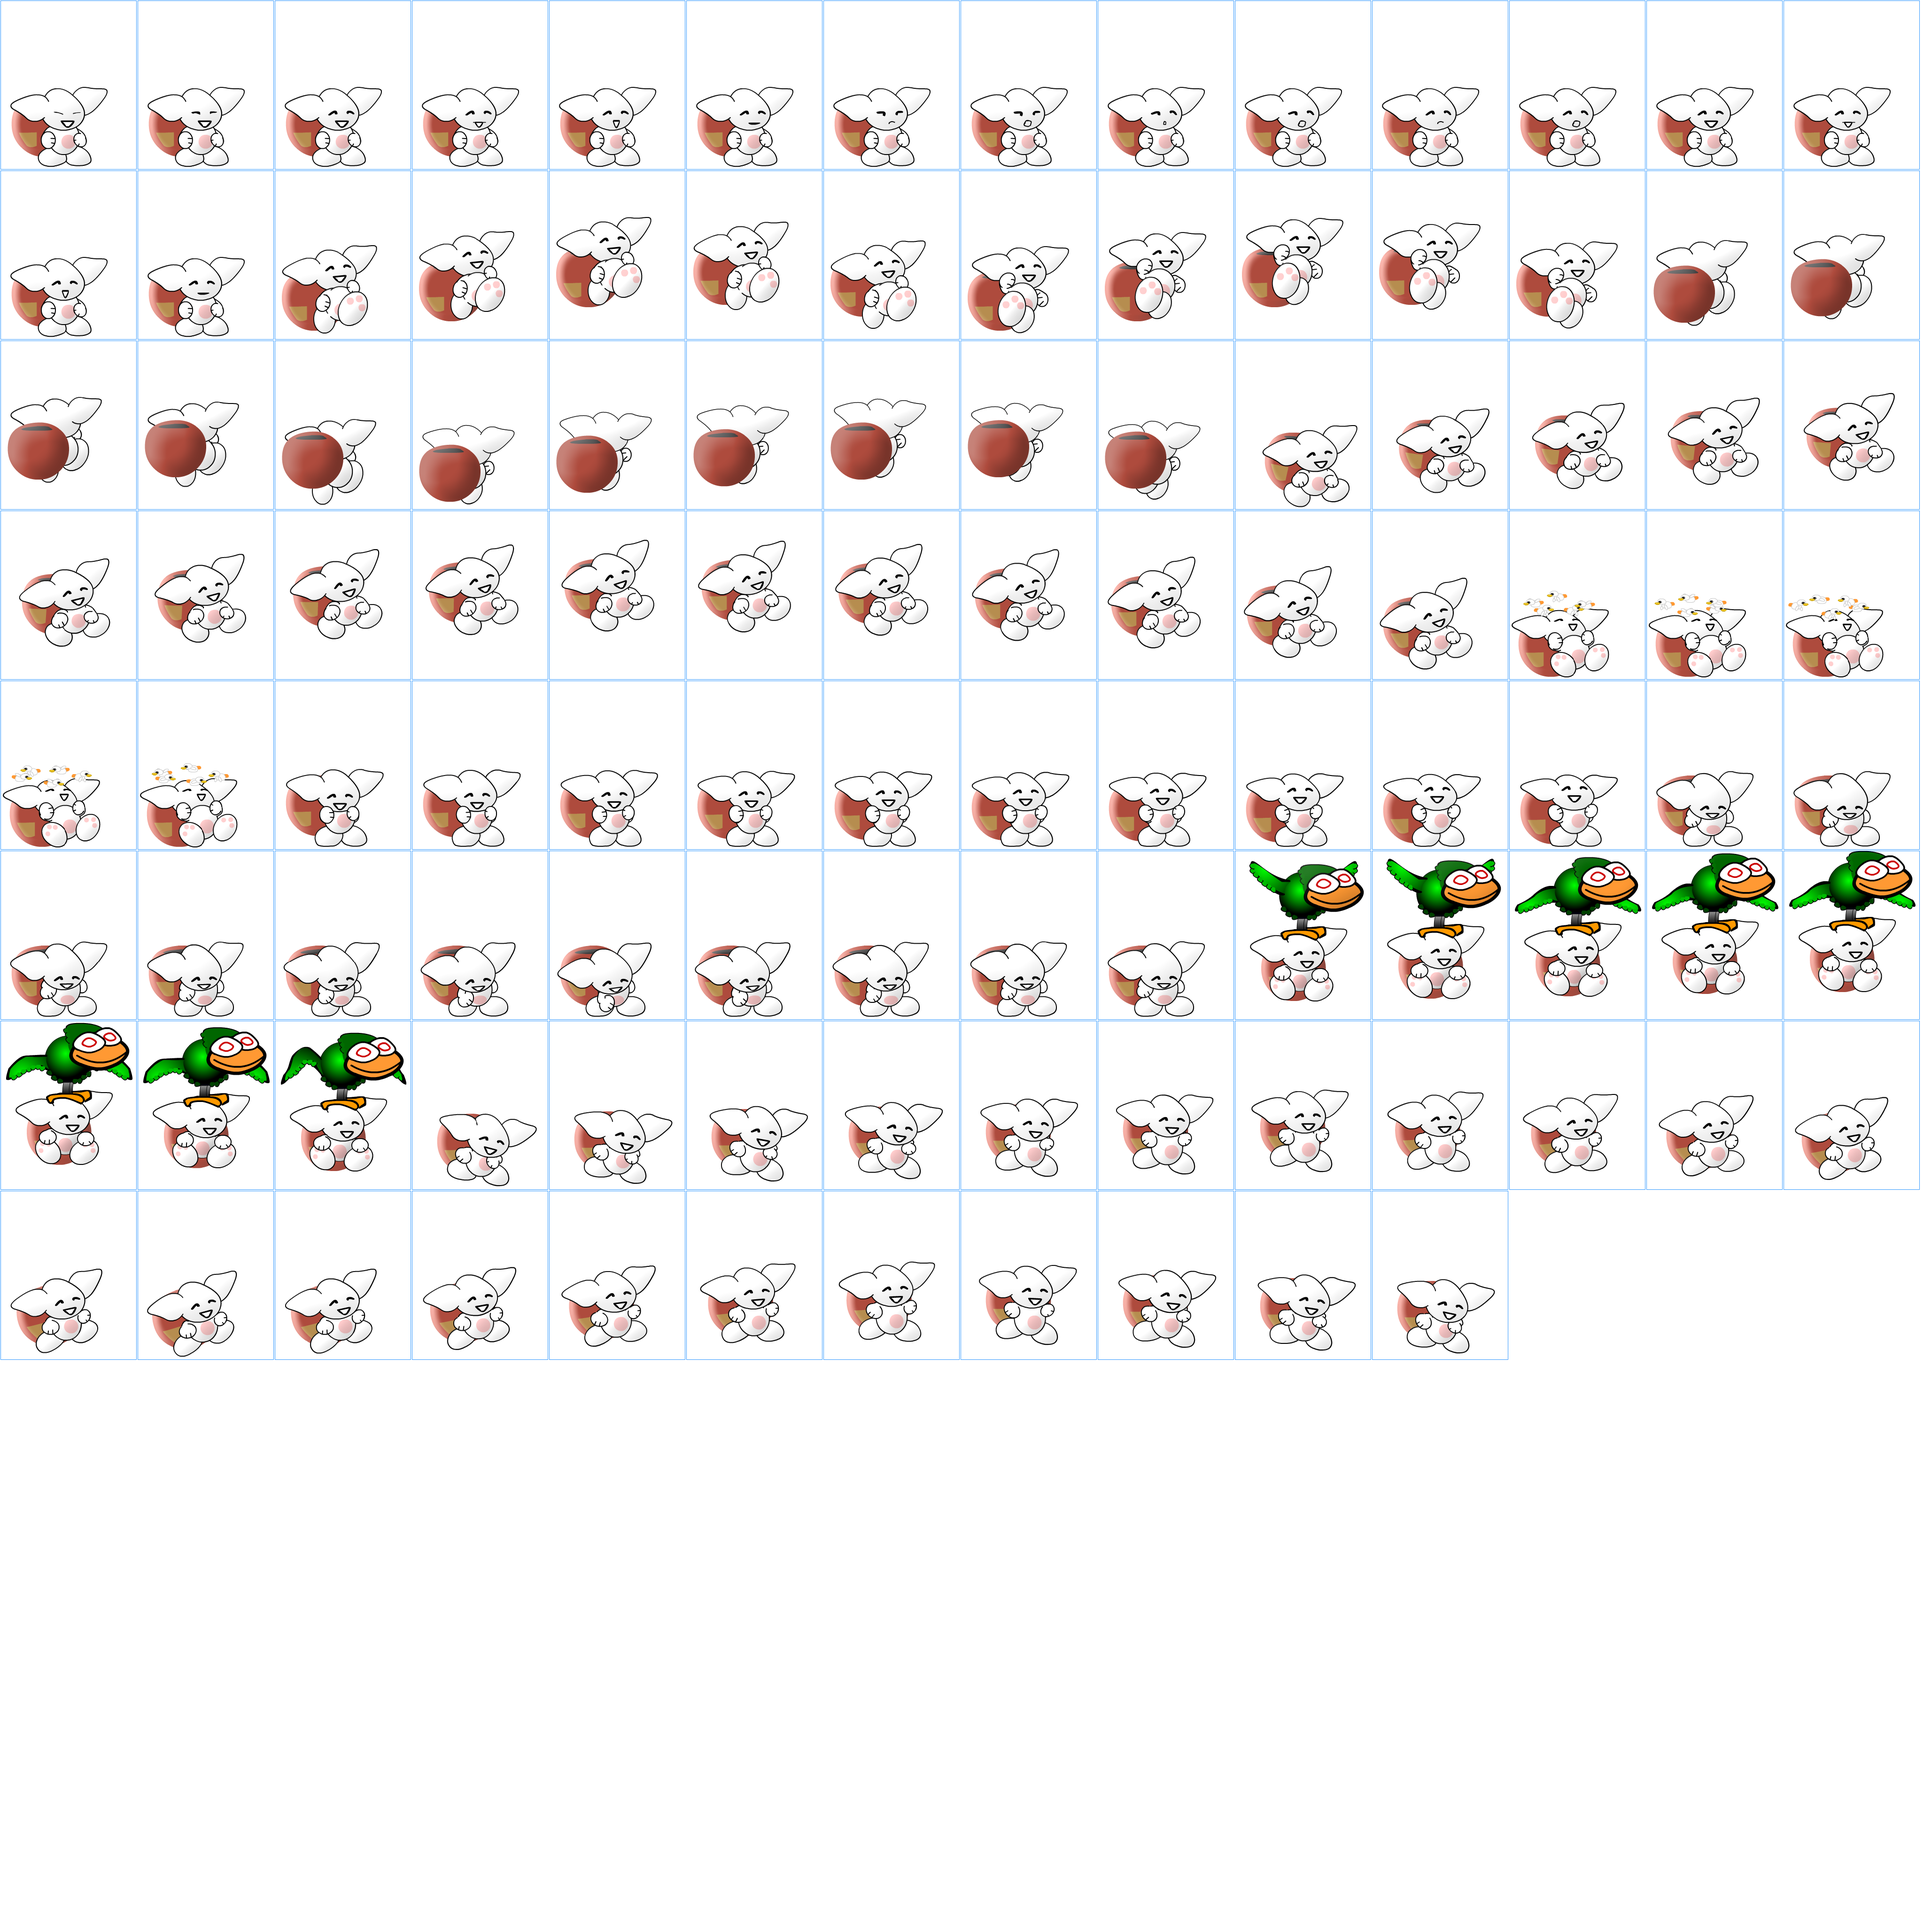
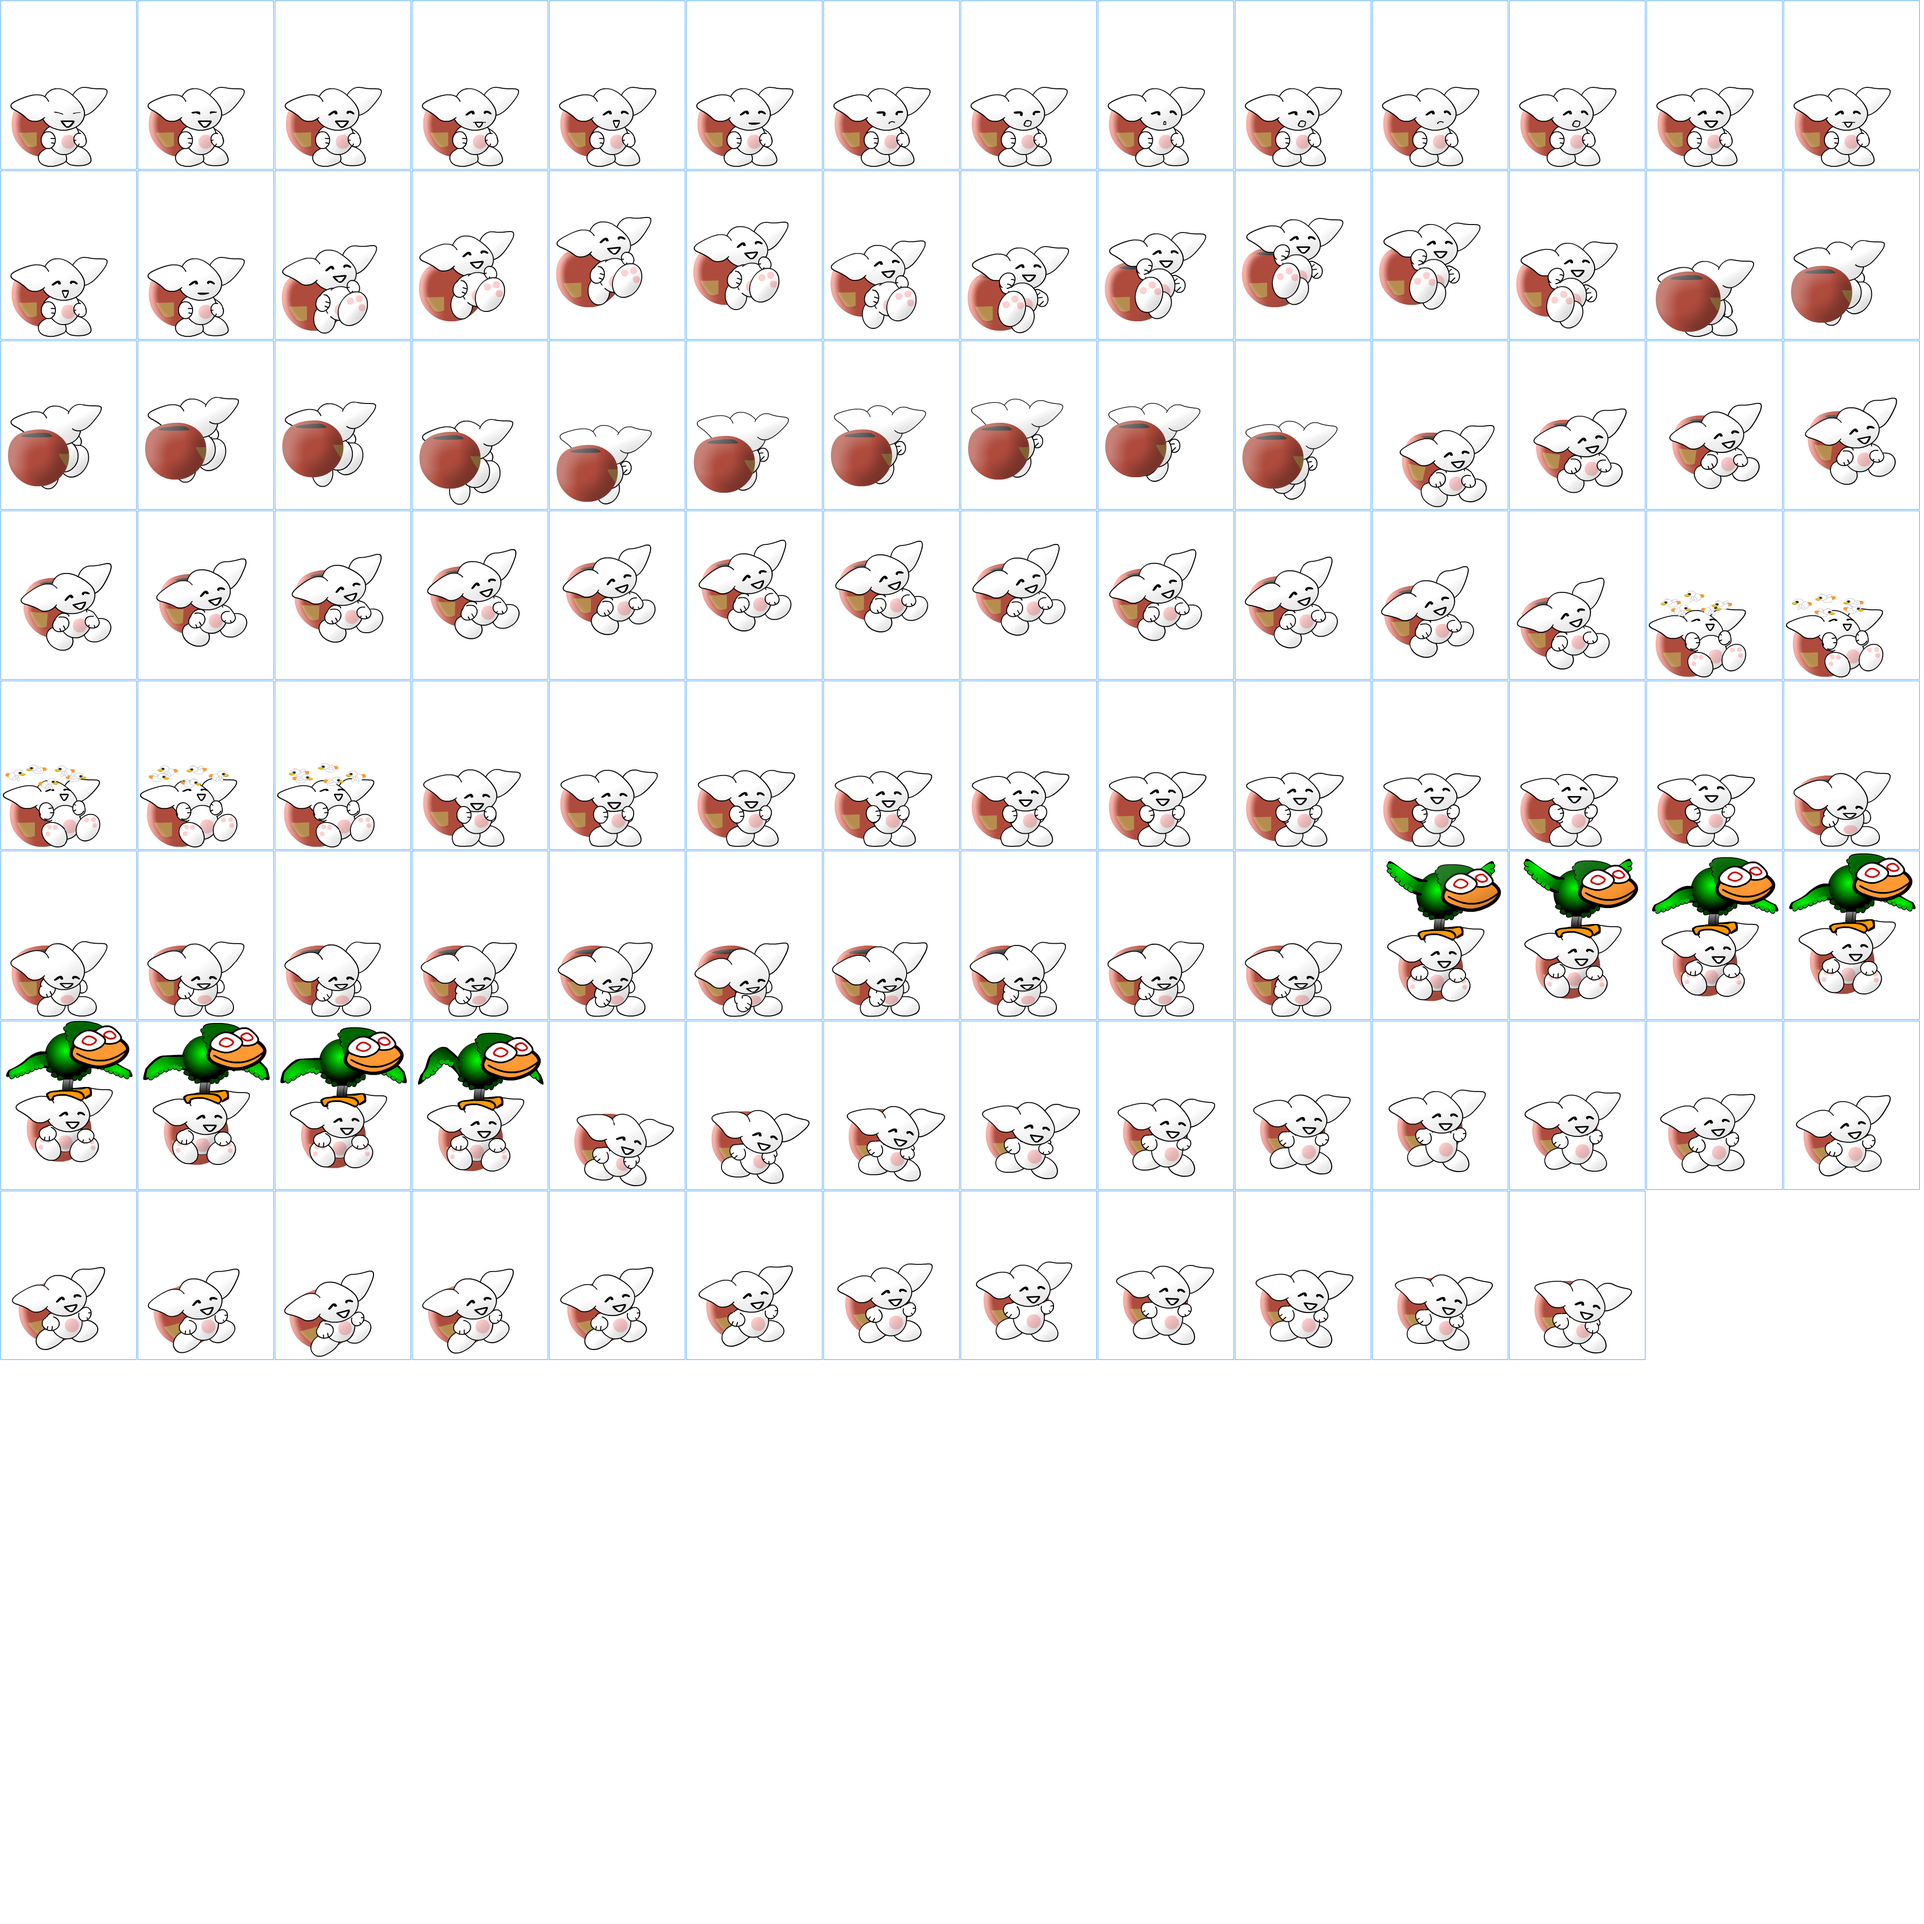
Added back still on dobuki

diff --git a/game/scenes/dobuki/start.js b/game/scenes/dobuki/start.js
@@ -8,6 +8,7 @@ SceneManager.add({Game: class extends Game {
 				pos: [0, 0, 0],
 				mov: [0, 0, 0],
 				speed: 0,
+				lastMov: [0, 0, 0],
 			},
 			cam: [ 0, 0, 0 ],
 		};
@@ -56,7 +57,13 @@ SceneManager.add({Game: class extends Game {
 		if (ddist > 0) {
 			sceneData.dok.mov[0] = dx;
 			sceneData.dok.mov[2] = dz;
-			sceneData.dok.speed += .015;
+			sceneData.dok.speed += .02;
+			if (sceneData.dok.mov[0]) {
+				sceneData.dok.lastMov[0] = sceneData.dok.mov[0];
+			}
+			if (sceneData.dok.mov[2]) {
+				sceneData.dok.lastMov[2] = sceneData.dok.mov[2];				
+			}
 		}
 		sceneData.dok.speed *= .8;
 
@@ -105,22 +112,23 @@ SceneManager.add({Game: class extends Game {
 			padding: 1,
 			frameRate: 24,
 			animations: [
-				[ "idle", "still*20,blink" ],
+				[ "idle", "still*100,blink" ],
 				[ "still", "2" ],
-				[ "blink", "0-2" ],
+				[ "blink", "0*3,0-2,2*3" ],
 				[ "talk", "2-5" ],
 				[ "talk-mad", "6-7" ],
 				[ "talk-surprised", "8-9" ],
 				[ "talk-sad", "10-11" ],
 				[ "talk-4th-wall", "12-15" ],
 				[ "walk", "16-25" ],
-				[ "walk-up", "26-36" ],
-				[ "knocked-up", "37-52" ],
-				[ "birds", "53-57" ],
-				[ "cast-spell", "58-67" ],
-				[ "pick-up", "68-78" ],
-				[ "fly", "79-86" ],
-				[ "dancing", "87-94" ],
+				[ "idle-up", "26"],
+				[ "walk-up", "27-37" ],
+				[ "knocked-up", "38-53" ],
+				[ "birds", "54-58" ],
+				[ "cast-spell", "59-68" ],
+				[ "pick-up", "69-79" ],
+				[ "fly", "80-87" ],
+				[ "dancing", "88-95" ],
 			],
 		},
 	],
@@ -133,11 +141,11 @@ SceneManager.add({Game: class extends Game {
 				({game: { sceneData: { dok }}}) => game.sceneData.dok.pos[2],
 			],
 			scale: [
-				({game: {sceneData: { dok }}}) => (dok.mov[0] || 1) * 2.4,
+				({game: {sceneData: { dok }}}) => (dok.lastMov[0] || 1) * 2.4,
 				2.4,
 			],
 			animation: ({game: { sceneData: { dok }}}) => {
-				return dok.speed > .01 ? (dok.mov[1] < 0 ? "walk-up" : "walk") : "idle";
+				return dok.speed > .01 ? (dok.lastMov[2] < 0 ? "walk-up" : "walk") : (dok.lastMov[2] < 0 ? "idle-up" : "idle");
 			},
 			shadowColor: 0xFF333333,
 			spriteSize: [292, 362],

diff --git a/docs/index.html b/docs/index.html
@@ -86,8 +86,8 @@
 				</div>
 				<div style="width: 100%"></div>
 				<div id="code-tabs" class="tab-container">
-					<div id="design-tab" class="tab selected">🛠 DESIGN</div>
-					<div id="code-tab" class="tab">📝 CODE</div>
+					<div id="design-tab" class="tab">🛠 DESIGN</div>
+					<div id="code-tab" class="tab selected">📝 CODE</div>
 				</div>
 				<div id="panel-exit-button" class="panel-button" onclick="SceneThumbnail.instance.shiftPanel()">
 					GAME ➡
